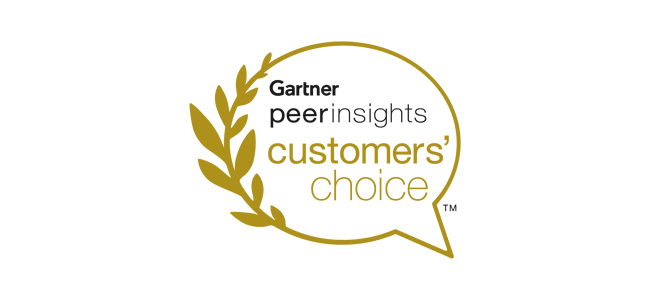
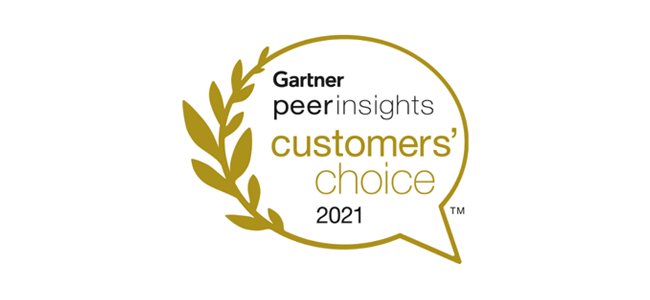
update 2-8-2021

Changed region(s): [[0.2769, 0.09, 0.7385, 0.87]]

diff --git a/chris-signature.html b/chris-signature.html
@@ -1,90 +1,83 @@
 <table border="0" cellspacing="0" cellpadding="0" style="margin-top: 10px;">
-  <tbody>
-    <tr>
-      <td style="padding:0 0 0 0; max-width:100%">
-        <p style="text-decoration: none !important; font-family:&quot;Helvetica Neue&quot;;color:#569bbe;padding:0px 13px 0px 0px; margin: 0 13px 4px 0; border-right: 3px solid #569bbe; font-size: 30px; color: #222; font-weight: lighter;">
-            A<span style="color: #569bbe;">V</span>ANAN
-        </p>
-      </td>
-      <td style="padding:0 0 0 0; max-width:100%;">
-        <p style="margin:0in; margin-bottom:5px; line-height: 17px;">
-          <strong>
-            <span style="font-size: 15px; font-family:&quot;Helvetica Neue&quot;;color:#569bbe">
-              Chris Blum
+    <tbody>
+      <tr>
+        <td style="padding:0 0 0 0; max-width:100%">
+          <p style="text-decoration: none !important; font-family:&quot;Helvetica Neue&quot;;color:#569bbe;padding:0px 13px 0px 0px; margin: 0 13px 4px 0; border-right: 3px solid #569bbe; font-size: 30px; color: #222; font-weight: lighter;">
+              <img src="https://ci4.googleusercontent.com/proxy/R6HI2wwIH1W2RxfoPGdYYQda5WFtd4_ZPrM64SAEVnZd95ch7BS40Q8_NpzEnRWIUvfjIzbvGXBdz6iFZcX4rjLSy1JP=s0-d-e1-ft#https://www.avanan.com/hubfs/avanan-email-logo.png" width="96" height="33" class="CToWUd">
+          </p>
+        </td>
+        <td style="padding:0 0 0 0; max-width:100%;">
+          <p style="margin:0in; margin-bottom:5px; line-height: 17px;">
+            <strong>
+              <span style="font-size: 15px; font-family:&quot;Helvetica Neue&quot;;color:#569bbe">
+                Chris Blum
+              </span>
+            </strong>
+            <br>
+            <span style="font-size: 13px; font-family:&quot;Helvetica Neue&quot;;color:#222">
+                VP of Marketing
             </span>
-          </strong>
-          <br>
-          <span style="font-size: 13px; font-family:&quot;Helvetica Neue&quot;;color:#222">
-              VP of Marketing
-          </span>
-        </p>
-      </td>
-    </tr>
-  </tbody>
-</table>
-<table>
-  <tbody>
-    <tr>
-      <td style="padding:0 0 0 0; max-width:100%;">
-        <p style="margin:0in; margin-bottom:.0001pt; line-height: 14px;">
-          <strong>
-            <span style="font-size:13px;font-family:&quot;Helvetica Neue&quot;;color:#569bbe">
-              P:
+          </p>
+        </td>
+      </tr>
+    </tbody>
+  </table>
+  <table style="border-bottom: 1px solid #cdcdcd; margin-bottom: 8px; padding-bottom: 6px;; ">
+    <tbody>
+      <tr>
+        <td style="padding:0 0 0 0; max-width:100%;">
+          <p style="margin:0in; margin-bottom:.0001pt; line-height: 14px;">
+            <strong>
+              <span style="font-size:13px;font-family:&quot;Helvetica Neue&quot;;color:#569bbe">
+                P:
+              </span>
+            </strong>
+            <span style="font-size:13px; font-family:&quot;Helvetica Neue&quot;;color:#222">
+              <span style="color: #222; text-decoration: none;">
+                +1 855-5-AVANAN ext 711
+              </span>&nbsp; &nbsp;  
             </span>
-          </strong>
-          <span style="font-size:13px; font-family:&quot;Helvetica Neue&quot;;color:#222">
-            <span style="color: #222; text-decoration: none;">
-              +1.855.528.2626
-            </span>&nbsp; &nbsp;	
-          </span>
-          <strong>
-            <span style="font-size:13px; font-family:&quot;Helvetica Neue&quot;;color:#569bbe">
-              E:
+            <strong>
+              <span style="font-size:13px; font-family:&quot;Helvetica Neue&quot;;color:#569bbe">
+                E:
+              </span>
+            </strong>
+            <span style="font-size:13px; font-family:&quot;Helvetica Neue&quot;;color:#222">
+              <a href="mailto:chrisb@avanan.com" style="color: #222; text-decoration: none;">
+                chrisb@avanan.com
+              </a>
             </span>
-          </strong>
-          <span style="font-size:13px; font-family:&quot;Helvetica Neue&quot;;color:#222">
-            <a href="mailto:chrisb@avanan.com" style="color: #222; text-decoration: none;">
-              chrisb@avanan.com
+            <br>
+            <a title="LinkedIn" style="font-size:13px; line-height: 21px; font-family:&quot;Helvetica Neue&quot;;color:#222; text-decoration: none;" href="https://www.linkedin.com/in/christineblum/">
+              <span>LinkedIn</span>
+            </a>&nbsp;
+            <a title="Learn More" style="font-size:13px; line-height: 21px; font-family:&quot;Helvetica Neue&quot;;color:#222; text-decoration: none;" href="https://www.avanan.com/learn-more">
+              <span>Learn More</span>
             </a>
-          </span>
-          <br>
-          <a title="Calendar" style="font-size:13px; line-height: 21px; font-family:&quot;Helvetica Neue&quot;;color:#222; text-decoration: none;" href="https://calendly.com/contact">
-            <span>My Calendar</span>
-          </a>&nbsp;
-          <a title="LinkedIn" style="font-size:13px; line-height: 21px; font-family:&quot;Helvetica Neue&quot;;color:#222; text-decoration: none;" href="https://linkedin.com/in/johndoe">
-            <span>LinkedIn</span>
-          </a>&nbsp;
-          <a title="Learn More" style="font-size:13px; line-height: 21px; font-family:&quot;Helvetica Neue&quot;;color:#222; text-decoration: none;" href="https://www.avanan.com/learn-more">
-            <span>Learn More</span>
-          </a>
 
+          </p>
+        </td>
+      </tr>
+      
+    </tbody>
+  </table>
+
+  <table>
+    <tbody><tr>
+      <td style="font-family:&quot;Helvetica Neue&quot;;">
+        <p style="margin:0in; margin-bottom:.0001pt; line-height: 18px;">
+        <a href="https://www.gartner.com/reviews/market/email-security" style="font-style: italic; height: 5px; font-size: 13px; font-family:&quot;Helvetica Neue&quot;;color:#569bbe; text-decoration: none;">
+          #1 in Gartner Peer Insights
+        </a>
+        <br>
+        <a href="https://www.g2.com/categories/cloud-email-security?tab=highest_rated" style="font-style: italic; height: 5px; font-size: 13px; font-family:&quot;Helvetica Neue&quot;;color:#569bbe; text-decoration: none;">
+          #1 in G2 Cloud Email Security
+        </a>
+        <br>
+        <a href="https://www.avanan.com/blog/avanan-fastest-growing-email-security-company" style="font-style: italic; height: 5px; font-size: 13px; font-family:&quot;Helvetica Neue&quot;;color:#569bbe; text-decoration: none;">
+          Fastest Growing Email Security Vendor (by 2020 Deloitte Fast 500) 
+        </a>
         </p>
       </td>
     </tr>
-    
-  </tbody>
-</table>
-
-<table style="border-top: 1px solid #cdcdcd; margin-top: 8px; padding-top: 6px; width: 280px;">
-  <tr>
-    <td style="font-family:&quot;Helvetica Neue&quot;;">
-      <p style="margin:0in; margin-bottom:.0001pt; line-height: 16px;">
-      <span style="font-weight: bold; font-style: italic; height: 5px; font-size: 12px; font-family:&quot;Helvetica Neue&quot;;color:#569bbe;letter-spacing: 1.5px;">
-        #1 in Gartner Peer Insights
-      </span>
-      <br>
-      <span style="font-weight: bold; font-style: italic; height: 5px; font-size: 12px; font-family:&quot;Helvetica Neue&quot;;color:#569bbe;letter-spacing: 1.5px;">
-        #1 in G2 Cloud Email Security
-      </span>
-      <br>
-      <span style="font-weight: bold; font-style: italic; height: 5px; font-size: 12px; font-family:&quot;Helvetica Neue&quot;;color:#569bbe;letter-spacing: 1.5px;">
-        Featured in Deloitte Fast 500
-      </span>
-      <br>
-      <span style="font-weight: bold; font-style: italic; height: 5px; font-size: 12px; font-family:&quot;Helvetica Neue&quot;;color:#569bbe;letter-spacing: 1.5px;">
-        Hot 150 Cybersecurity Companies
-      </span>
-      </p>
-    </td>
-  </tr>
-</table>
+  </tbody></table>

diff --git a/index-navigation.html b/index-navigation.html
@@ -960,53 +960,53 @@
 
 
 
-    <!-- Contacts Info Section -->
+    <!-- Accolades Info Section -->
     <div class="container">
     <div class="clearfix">
       <div class="row no-gutters">
         <div class="col-sm-6 col-lg-3 u-ver-divider u-ver-divider--none-lg">
-          <!-- Contacts Info -->
+          <!-- Icon Info -->
           <div class="text-center py-5">
             <figure style="max-width: 120px;" class="mx-auto mt-3 mb-3">
-              <img class="img-fluid" src="assets/img/GPI-CC.png" alt="SVG">
+              <img class="img-fluid" src="https://www.avanan.com/hubfs/website/img/pages/GPI-CC-2021.png" alt="Gartner Customers' Choice">
             </figure>
           </div>
-          <!-- End Contacts Info -->
+          <!-- End Icon Info -->
         </div>
 
         <div class="col-sm-6 col-lg-3 u-ver-divider u-ver-divider--none-lg">
-          <!-- Contacts Info -->
+          <!-- Icon Info -->
           <div class="text-center py-5">
             <figure style="max-width: 100px;" class="mx-auto mb-3">
-              <img class="img-fluid" src="assets/img/medal.png">
+              <img class="img-fluid" src="https://www.avanan.com/hubfs/website/img/pages/G2-Leader-2021.png" alt="G2 Leader">
             </figure>
           </div>
-          <!-- End Contacts Info -->
+          <!-- End Icon Info -->
         </div>
 
         <div class="col-sm-6 col-lg-3 u-ver-divider u-ver-divider--none-lg">
-          <!-- Contacts Info -->
+          <!-- Icon Info -->
           <div class="text-center py-5">
             <figure style="max-width: 110px;" class="mx-auto mt-1 mb-3">
-              <img class="img-fluid" src="assets/img/fast-500.png">
+              <img class="img-fluid" src="https://www.avanan.com/hubfs/website/img/pages/Fast-500-2021.png" alt="Deloitte Fast 500">
             </figure>
           </div>
-          <!-- End Contacts Info -->
+          <!-- End Icon Info -->
         </div>
 
         <div class="col-sm-6 col-lg-3">
-          <!-- Contacts Info -->
+          <!-- Icon Info -->
           <div class="text-center py-5">
             <figure style="max-width: 150px;" class="mx-auto mt-4 mb-3">
-              <img class="img-fluid" src="assets/img/hot-150.png">
+              <img class="img-fluid" src="https://www.avanan.com/hubfs/website/img/pages/Hot-150-2021.png" alt="Cybercrime Magazine Hot 150">
             </figure>
           </div>
-          <!-- End Contacts Info -->
+          <!-- End Icon Info -->
         </div>
       </div>
     </div>
     </div>
-    <!-- End Contacts Info Section -->
+    <!-- End Accolades Info Section -->
 
 
 
@@ -1192,25 +1192,25 @@
         <div class="tab-pane fade p-4 active show" id="pills-result-3" role="tabpanel" aria-labelledby="pills-result-tab-3">
           <div class="card-deck card-sm-gutters-3 d-block d-lg-flex">
             <div class="card mb-3 shadow">
-              <img class="card-img-top" src="assets/img/card-one.png" alt="Card image cap">
+              <img class="card-img-top" src="https://www.avanan.com/hubfs/website/img/homepage/cards/Survey-Webinar-Card-Header.png" alt="Watch the Webinar">
               <div class="card-body p-5 mb-0">
-                <h4 class="card-title mb-0">Avanan named 2019 Customer’s Choice for Email Security</h4>
+                <h4 class="card-title mb-0">The State of Email Security Survey Results</h4>
+              </div>
+              <div class="card-footer">
+                <a href="" class="btn btn-block btn-outline-primary">Watch Now</a>
+              </div>
+            </div>
+            <div class="card mb-3 shadow">
+              <img class="card-img-top" src="https://www.avanan.com/hubfs/website/img/homepage/cards/Gartner-Card-Header.png" alt="Gartner Peer Insights">
+              <div class="card-body p-5 mb-0">
+                <h4 class="card-title mb-0">Avanan named 2021 Customer’s Choice for Email Security</h4>
               </div>
               <div class="card-footer">
                 <a href="" class="btn btn-block btn-outline-primary">Read More</a>
               </div>
             </div>
             <div class="card mb-3 shadow">
-              <img class="card-img-top" src="assets/img/card-two.png" alt="Card image cap">
-              <div class="card-body p-5 mb-0">
-                <h4 class="card-title mb-0">The State of Email Security Survey Results</h4>
-              </div>
-              <div class="card-footer">
-                <a href="" class="btn btn-block btn-outline-primary">Register Now</a>
-              </div>
-            </div>
-            <div class="card mb-3 shadow">
-              <img class="card-img-top" src="assets/img/card-three.png" alt="Card image cap">
+              <img class="card-img-top" src="https://www.avanan.com/hubfs/website/img/homepage/cards/Legal-Webinar-Card-Header.png" alt="Watch the Webinar">
               <div class="card-body p-5 mb-0">
                 <h4 class="card-title mb-0">Should You Pay Ransom? And Other Legal Cybersecurity Questions.</h4>
               </div>
@@ -1219,11 +1219,6 @@
               </div>
             </div>
           </div>
-        </div>
-        <div class="tab-pane fade" id="pills-html-3" role="tabpanel" aria-labelledby="pills-html-tab-3">
-          <div class="code-toolbar"><pre class=" language-markup"><code class=" language-markup" data-lang="html"><span class="token tag"><span class="token tag"><span class="token punctuation">&lt;</span>div</span> <span class="token attr-name">class</span><span class="token attr-value"><span class="token punctuation">=</span><span class="token punctuation">"</span>card-deck card-sm-gutters-2 d-block d-sm-flex<span class="token punctuation">"</span></span><span class="token punctuation">&gt;</span></span>
-  ...
-  <span class="token tag"><span class="token tag"><span class="token punctuation">&lt;/</span>div</span><span class="token punctuation">&gt;</span></span></code></pre><div class="toolbar"><div class="toolbar-item"><a>Copy</a></div></div></div>
         </div>
       </div>
     </div>
